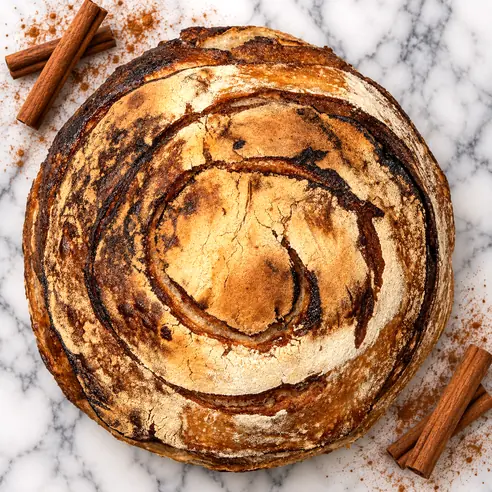
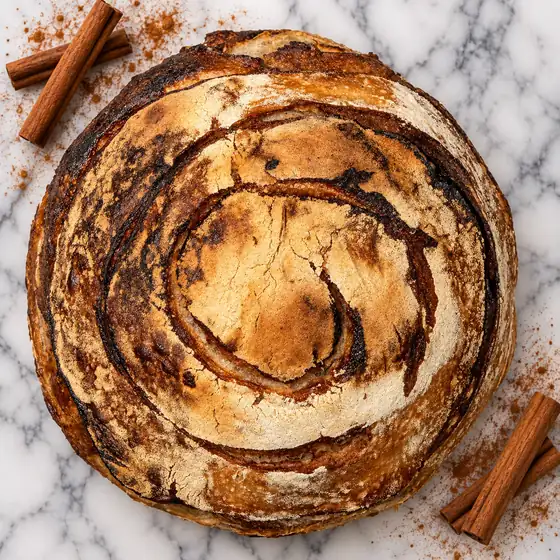
Encode the cinnamon swirl as sent, with no brightness added
The photograph arrived already corrected. Lifting it another 8% on top of
that was overshooting a fix that had been made, so fit_dim goes back to
what it was and the bake joins SRC_JOBS as an ordinary entry.

It encodes larger this way — 560x560 q59, 67KB, where the brightened copy
had to come down to 492x492 to fit the same budget.

Claude-Session: https://claude.ai/code/session_01FkSf31TJEZyL1DRpYQL8CR

diff --git a/design/_prep_images.py b/design/_prep_images.py
@@ -6,7 +6,7 @@ each save and the editor drops anything over 2 MB. WebP quality is searched
 per image; where a heavily-textured crust cannot reach the budget even at low
 quality, pixel dimensions come down instead.
 """
-from PIL import Image, ImageDraw, ImageEnhance
+from PIL import Image, ImageDraw
 import os, io, sys
 
 SRC = "/root/.claude/uploads/01dc96a3-a6dd-5803-8a08-d1aa320808c5"
@@ -33,17 +33,10 @@ def fit(im, path, lo=38, hi=90, target=TARGET):
         open(path, "wb").write(best[1])
     return best
 
-def fit_dim(src, name, w, lighten=1.0):
-    """Shrink until a reasonable quality fits the budget.
-
-    `lighten` is a brightness multiplier for a bake that came out darker on
-    the page than it does in the hand — Amanda asks for a smidge, not a
-    correction, so it stays close to 1 and is applied before the resize so
-    the encoder sees the final pixels."""
+def fit_dim(src, name, w):
+    """Shrink until a reasonable quality fits the budget."""
     while w >= 380:
         im = Image.open(src).convert("RGB")
-        if lighten != 1.0:
-            im = ImageEnhance.Brightness(im).enhance(lighten)
         r = w / im.size[0]
         im = im.resize((w, int(im.size[1] * r)), Image.LANCZOS)
         got = fit(im, f"{OUT}/{name}.webp", lo=55)
@@ -116,13 +109,12 @@ JOBS = [
 
 # Bakes whose only copy came through a screenshot, cropped into design/src
 # rather than sitting in the upload set. Same budget, same encoder.
-# (name, width) or (name, width, lighten)
 SRC_JOBS = [
     ("classic-sourdough", 560),
     ("garlic-rosemary-sourdough", 560),
     ("country-loaf", 560),
     ("peppered-pickle-muffins", 560),
-    ("cinnamon-swirl-sourdough", 560, 1.08),
+    ("cinnamon-swirl-sourdough", 560),
 ]
 
 if __name__ == "__main__":
@@ -138,10 +130,8 @@ if __name__ == "__main__":
             src = f"{SRC}/{stem}-image.jpg"
         size, q, n = fit_dim(src, name, w)
         print(f"{name+'.webp':<24}{size[0]}x{size[1]:<5} q{q}  {n//1024}KB")
-    for job in SRC_JOBS:
-        name, w, lighten = (*job, 1.0)[:3]
-        size, q, n = fit_dim(f"{ROOT_SRC}/{name}.png", name, w, lighten)
-        lit = f"  +{round((lighten - 1) * 100)}% light" if lighten != 1.0 else ""
-        print(f"{name+'.webp':<30}{size[0]}x{size[1]:<5} q{q}  {n//1024}KB{lit}")
+    for name, w in SRC_JOBS:
+        size, q, n = fit_dim(f"{ROOT_SRC}/{name}.png", name, w)
+        print(f"{name+'.webp':<24}{size[0]}x{size[1]:<5} q{q}  {n//1024}KB")
     tot = sum(os.path.getsize(f"{OUT}/{f}") for f in os.listdir(OUT))
     print(f"\nTOTAL {tot//1024}KB / {len(os.listdir(OUT))} files")
